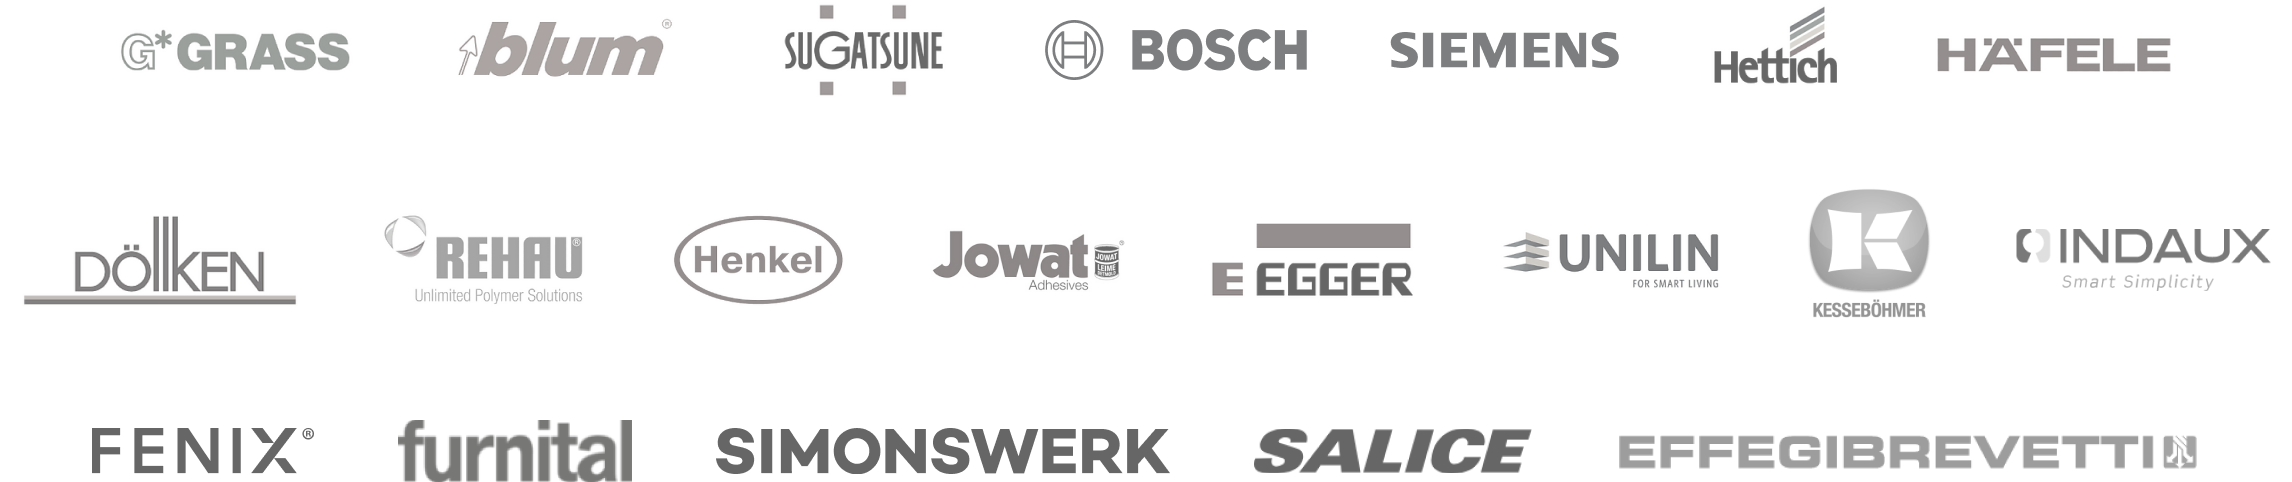
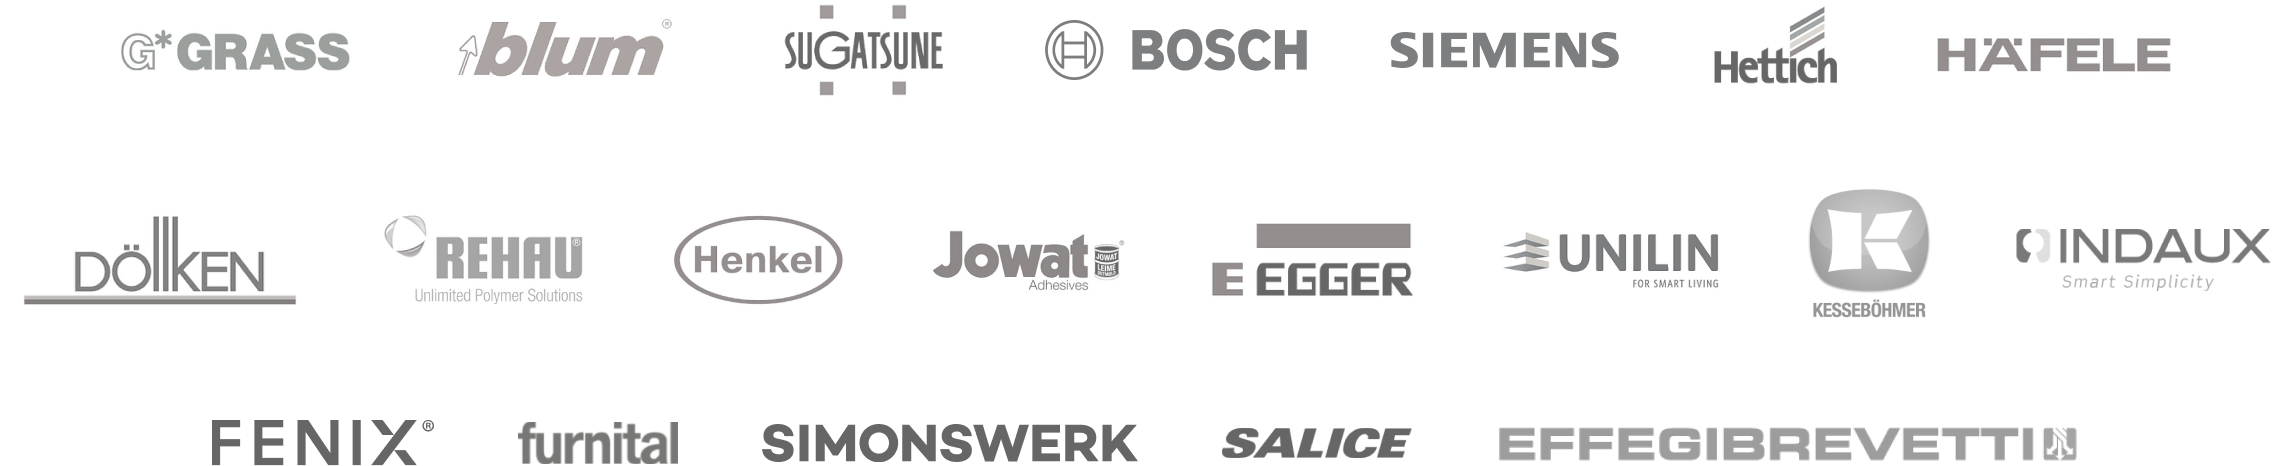
final tweaks part 3

diff --git a/src/app/who-we-are/page.tsx b/src/app/who-we-are/page.tsx
@@ -184,12 +184,12 @@ Our global supplier network enables us to access a wide range of hardware, mater
         <Image
           src={suppliers}
           alt="hero image"
-          className="hidden h-36 object-contain md:block"
+          className="hidden w-full object-contain px-20 md:block"
         />
         <Image
           src={suppliersM}
           alt="hero image"
-          className="flex w-full object-contain md:hidden"
+          className="block w-full object-contain md:hidden"
         />
       </div>
 

diff --git a/README.md b/README.md
@@ -1,16 +1,16 @@
 - [x] add expandable client logos
 - [x] add expandable partner logos
-- [] add CTA for "looking to partner with us"
+- [ ] add CTA for "looking to partner with us"
 - [x] complete the projects section (3 projects for now)
-- [] revamp the team section with the graphics
+- [ ] revamp the team section with the graphics
 - [x] finish the footer
 - [x] add a hi res photo to the bottom section
-- [] add description for the what drives us section
+- [ ] add description for the what drives us section
 - [x] replace the "our quality" image
-- [] update the supplier logos
+- [ ] update the supplier logos
 - [x] remove the timeline
-- [] add supplier form
-- [] complete the gallery section
-- [] complete the form functionality
-- [] configure contact form to send emails
-- [] add seo
+- [ ] add supplier form
+- [ ] complete the gallery section
+- [ ] complete the form functionality
+- [ ] configure contact form to send emails
+- [ ] add seo
